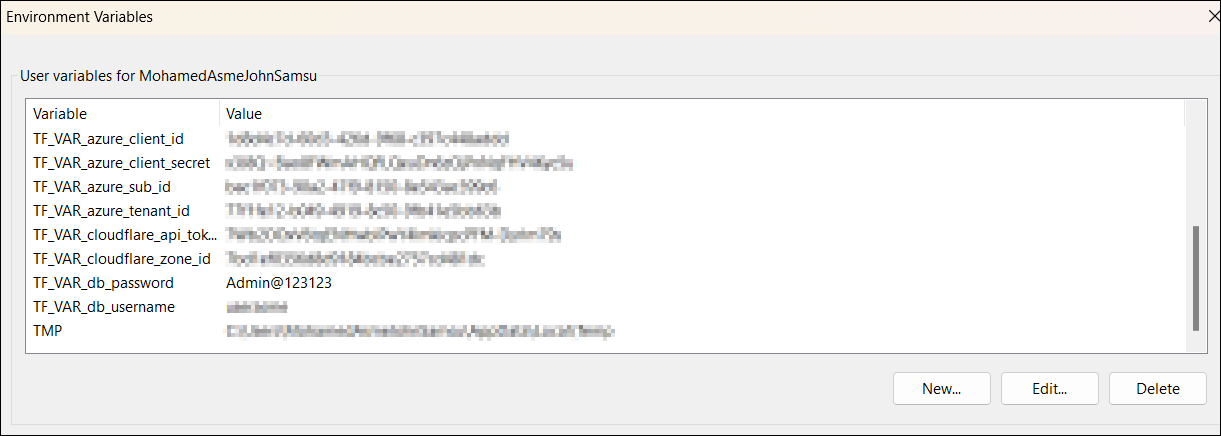
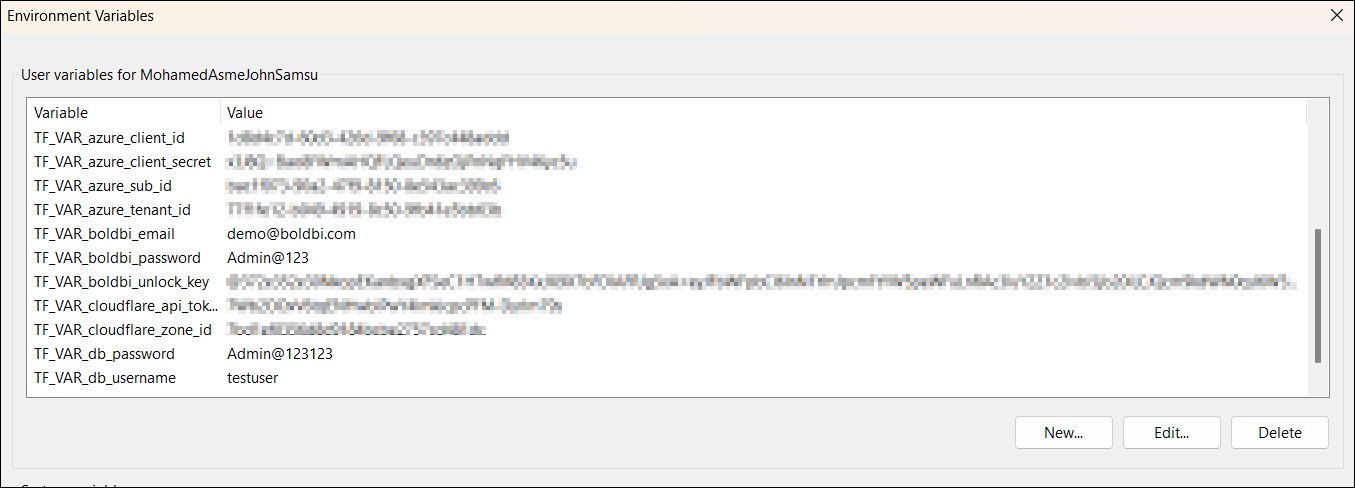
add

diff --git a/azure-aks/README.md b/azure-aks/README.md
@@ -1,6 +1,6 @@
-# Deploy Bold Reports Using Terraform on AKS Cluster
+# Deploy Bold BI Using Terraform on AKS Cluster
 
-This guide explains how to deploy Bold Reports using a Terraform script. The script automates the creation of all necessary Azure resources and the deployment of Bold Reports. Once the deployment is complete, you can copy and paste the APP_URL into your browser to start evaluating Bold Reports.
+This guide explains how to deploy Bold BI using a Terraform script. The script automates the creation of all necessary Azure resources and the deployment of Bold BI. Once the deployment is complete, you can copy and paste the APP_URL into your browser to start evaluating Bold BI.
 
 ---
 
@@ -10,7 +10,8 @@ Before proceeding, ensure the following tools and resources are installed and av
 
 1. **Terraform CLI**  
    Install Terraform from the official guide: [Terraform Installation Guide](https://developer.hashicorp.com/terraform/tutorials/aws-get-started/install-cli)
-2. [Azure Subscription](https://azure.microsoft.com/en-us/pricing/purchase-options/azure-account) with An [Azure Application Registry](https://learn.microsoft.com/en-us/entra/identity-platform/howto-create-service-principal-portal)
+2. **[Azure Subscription](https://azure.microsoft.com/en-us/pricing/purchase-options/azure-account) with An [Azure Application Registry](https://learn.microsoft.com/en-us/entra/identity-platform/howto-create-service-principal-portal)**
+   <br>Ensure your Azure Application Registry has the necessary permissions defined in the [Policy.json](policy.json) file.
    - Client ID
    - Client Secret
    - Tenant ID
@@ -24,8 +25,8 @@ The Terraform script creates the following resources:
 
 1. **Resource Group** – A dedicated group for managing all resources.
 2. **Virtual Network (VNET) and Subnets** – For network configuration.
-3. **Azure Kubernetes Service (AKS) Cluster** – The core infrastructure for hosting Bold Reports.
-4. **PostgreSQL Server** – The database for storing Bold Reports configurations and data.
+3. **Azure Kubernetes Service (AKS) Cluster** – The core infrastructure for hosting Bold BI.
+4. **PostgreSQL Server** – The database for storing Bold BI configurations and data.
 5. **Storage Account with NFS** – To store Required application data.
 
 ---
@@ -36,50 +37,57 @@ The Terraform script creates the following resources:
 Clone the Terraform scripts repository using the following command:
 
 ```sh
- git clone https://github.com/boldreports/bold-reports-terraform-scripts.git
+ git clone https://github.com/boldbi/boldbi-terraform-scripts.git
 ```
 
 ### Step 2: Navigate to the Terraform Scripts Directory
 ```sh
-cd bold-reports-terraform-scripts/azure-aks
+cd boldbi-terraform-scripts/azure-aks
 ```
 
 ### Step 3: Set Environment Variables
-Set up the following environment variables on your [local system](https://chlee.co/how-to-setup-environment-variables-for-windows-mac-and-linux/) as shown below:
+To authenticate Terraform with your Azure account, add the following environment variables to your [local system](https://chlee.co/how-to-setup-environment-variables-for-windows-mac-and-linux/) variables.
 
-### 🔹 Provider Environment Variables
+| Variable Name               |Required| Description                                       |
+|-----------------------------|--------|---------------------------------------------------|
+| TF_VAR_azure_client_id      | Yes    | Azure Client ID for authentication                |
+| TF_VAR_azure_client_secret  | Yes    | Azure Client secret for authentication            |
+| TF_VAR_azure_sub_id         | Yes    | Azure Subscription ID for authentication          |
+| TF_VAR_azure_tenant_id      | Yes    | Azure Tenant ID for authentication                |
 
-| Variable Name               | Description                                       |
-|-----------------------------|---------------------------------------------------|
-| TF_VAR_azure_client_id *      | Azure Client ID for authentication                |
-| TF_VAR_azure_client_secret * | Azure Client secret for authentication            |
-| TF_VAR_azure_sub_id *        | Azure Subscription ID for authentication          |
-| TF_VAR_azure_tenant_id *     | Azure Tenant ID for authentication                |
+Other than this, we need to add the following environment variables either as a local system variable or in [Azure Key Vault](https://learn.microsoft.com/en-us/azure/key-vault/secrets/quick-create-portal) as shown below:
 
-### 🔹 Application Environment Variables
-| Variable Name               | Description                                       |
-|-----------------------------|---------------------------------------------------|
-| TF_VAR_db_username *         | **Database username** <br> - db username must only contain characters and numbers.<br> - db username cannot be 'azure_superuser', 'azure_pg_admin', 'admin', 'administrator', 'root', 'guest', 'public' or start with 'pg_'.                             |
-| TF_VAR_db_password *         | **Database password** <br> - Your password must be at least 8 characters and at most 128 characters.<br> - Your password must contain characters from three of the following categories<br> - English uppercase letters, English lowercase letters, numbers (0-9), and non-alphanumeric characters (!, $, #, %, etc.).<br> - Your password cannot contain all or part of the login name. Part of a login name is defined as three or more consecutive alphanumeric characters.                                 |
-| TF_VAR_app_base_url         | The base URL for the Bold Reports application (e.g., https://example.com).<br>If left empty, Azure DNS with randomly generated characters will be used for application hosting(e.g., http://abcd.eastus2.cloudapp.azure.com).<p><br> **Note:-**  If app_base_url is left empty, you must install Azure CLI on your machine for Azure DNS mapping.[Azure CLI Installation Guide](https://learn.microsoft.com/en-us/cli/azure/install-azure-cli)                                                |
-| TF_VAR_cloudflare_api_token | Cloudflare API Token for DNS mapping on cloudflare|
-| TF_VAR_cloudflare_zone_id   | Cloudflare zone ID for DNS mapping on cloudflare  |
-| TF_VAR_tls_certificate_path | For apply SSL creatificate on AKS cluster <br>Example <br>**windows**<br>D:\\\SSL\\\test\\\domain.crt<br>**Linux**<br>/home/adminuser/ssl/test/domain.crt        | 
-| TF_VAR_tls_key_path | For apply SSL private key on AKS cluster <br>Example <br>**windows**<br>D:\\\SSL\\\test\\\domain.key<br>**Linux**<br>/home/adminuser/ssl/test/domain.key         | 
-
-### 🔄 Notes
-
-🌟 `*` marked variables are mandatory field .  
-🌟 If any environment variable is not set, Terraform will prompt you to enter it during execution.  
-🌟 Please open a new terminal or PowerShell session after setting the environment variable in the system to ensure the updated value is recognized.
+| system variable Name         | Azure Key Vault Variable Name | Required | Description                                       |
+|------------------------------|-------------------------------|----------|---------------------------------------------------|
+| TF_VAR_db_username           | db-username                   | Yes      | **Database username** <br> - db username must only contain characters and numbers.<br> - db username cannot be 'azure_superuser', 'azure_pg_admin', 'admin', 'administrator', 'root', 'guest', 'public' or start with 'pg_'.                             |
+| TF_VAR_db_password           | db-password                   | Yes      | **Database password** <br> - Your password must be at least 8 characters and at most 128 characters.<br> - Your password must contain characters from three of the following categories<br> - English uppercase letters, English lowercase letters, numbers (0-9), and non-alphanumeric characters (!, $, #, %, etc.).<br> - Your password cannot contain all or part of the login name. Part of a login name is defined as three or more consecutive alphanumeric characters.                                 |
+| TF_VAR_boldbi_email          | boldbi-email                  | Yes      | Bold BI admin Email                               |
+| TF_VAR_boldbi_password       | boldbi-password               | Yes      | **Bold BI admin password**<br> - Your password must be at least 8 characters and at most 128 characters.<br> - Your password must contain characters from three of the following categories<br> - English uppercase letters, English lowercase letters, numbers (0-9), and non-alphanumeric characters (!, $, #, %, etc.)|
+| TF_VAR_boldbi_unlock_key     | boldbi-unlock-key             | Yes      | Unlock key for Bold BI                            |
+| TF_VAR_app_base_url          | app-base-url                  | No       | The base URL for the Bold BI application (e.g., https://example.com).<br>If left empty, Azure DNS with randomly generated characters will be used for application hosting(e.g., http://abcd.eastus2.cloudapp.azure.com).<p><br> **Note:-**  If app_base_url is left empty, you must install Azure CLI on your machine for Azure DNS mapping.[Azure CLI Installation Guide](https://learn.microsoft.com/en-us/cli/azure/install-azure-cli)                                                |
+| TF_VAR_cloudflare_api_token  | cloudflare-api-token          | No       | Cloudflare API Token for DNS mapping on cloudflare|
+| TF_VAR_cloudflare_zone_id    | cloudflare-zone-id            | No       | Cloudflare zone ID for DNS mapping on cloudflare  |
+| TF_VAR_tls_certificate_path  | tls-certificate-path          | No       |For apply SSL creatificate on AKS cluster <br>Example <br>**windows**<br>D:\\\SSL\\\test\\\domain.crt<br>**Linux**<br>/home/adminuser/ssl/test/domain.crt        | 
+| TF_VAR_tls_key_path          | tls-key-path                  | No       | For apply SSL private key on AKS cluster <br>Example <br>**windows**<br>D:\\\SSL\\\test\\\domain.key<br>**Linux**<br>/home/adminuser/ssl/test/domain.key         | 
 
 Variables after setting in system variables:
 
 ![system variable](./images/environment.png)
 
+Variables after setting in Azure Key Vault:
+
+![azure key vault](./images/azure_key_vault.png)
+
 If you need to change any infrastructure or application-level settings, refer to the `terraform.tfvars` file.
+
+**Note:**
+
+- If you are using Azure Key Vault, you need to specify the Azure Key Vault name and Azure Key Vault Resource Group name in the `terraform.tfvars` file, as shown below.
+
+![Secret Variable](./images/terraform_tfvars.png)
+
 ### Step 4: Initialize Terraform
-Open PowerShell or Terminal from the `bold-reports-terraform-scripts/azure-aks` directory and run the following command:
+Open PowerShell or Terminal from the `boldbi-terraform-scripts/azure-aks` directory and run the following command:
 ```sh
 terraform init
 ```
@@ -100,19 +108,16 @@ terraform apply
 ```
 ![terraform apply](./images/apply.gif)
 
-After seeing the following message, you can access Bold Reports in your browser:
+After seeing the following message, you can access Bold BI in your browser:
 
-![url](./images/url.png)
+![URL](./images/url.png)
 
-### 🔄 Notes
-🌟 Please Note the Azure PostgreSQL server Name and use this PostgreSQL server to configure the Bold Reports application.
+Please wait until the startup process completes and avoid opening the URL in multiple tabs. The initial startup may take some time. Once the startup configuration is complete, Bold BI will be ready for use.
 
-🌟 You can refer to the **[application startup](https://help.boldreports.com/enterprise-reporting/administrator-guide/application-startup/)** documentation.
+![terraform apply](./images/boldbi.gif)
 
-![Bold Reports](./images/bold-reports.gif)
-
-## Destroy Bold Reports and Resources
-To destroy Bold Reports and all associated resources, run the following command from the same directory. When prompted, type "yes" to confirm the deletion.
+## Destroy Bold BI and Resources
+To destroy Bold BI and all associated resources, run the following command from the same directory. When prompted, type "yes" to confirm the deletion.
 ```sh
 terraform destroy
 ```
